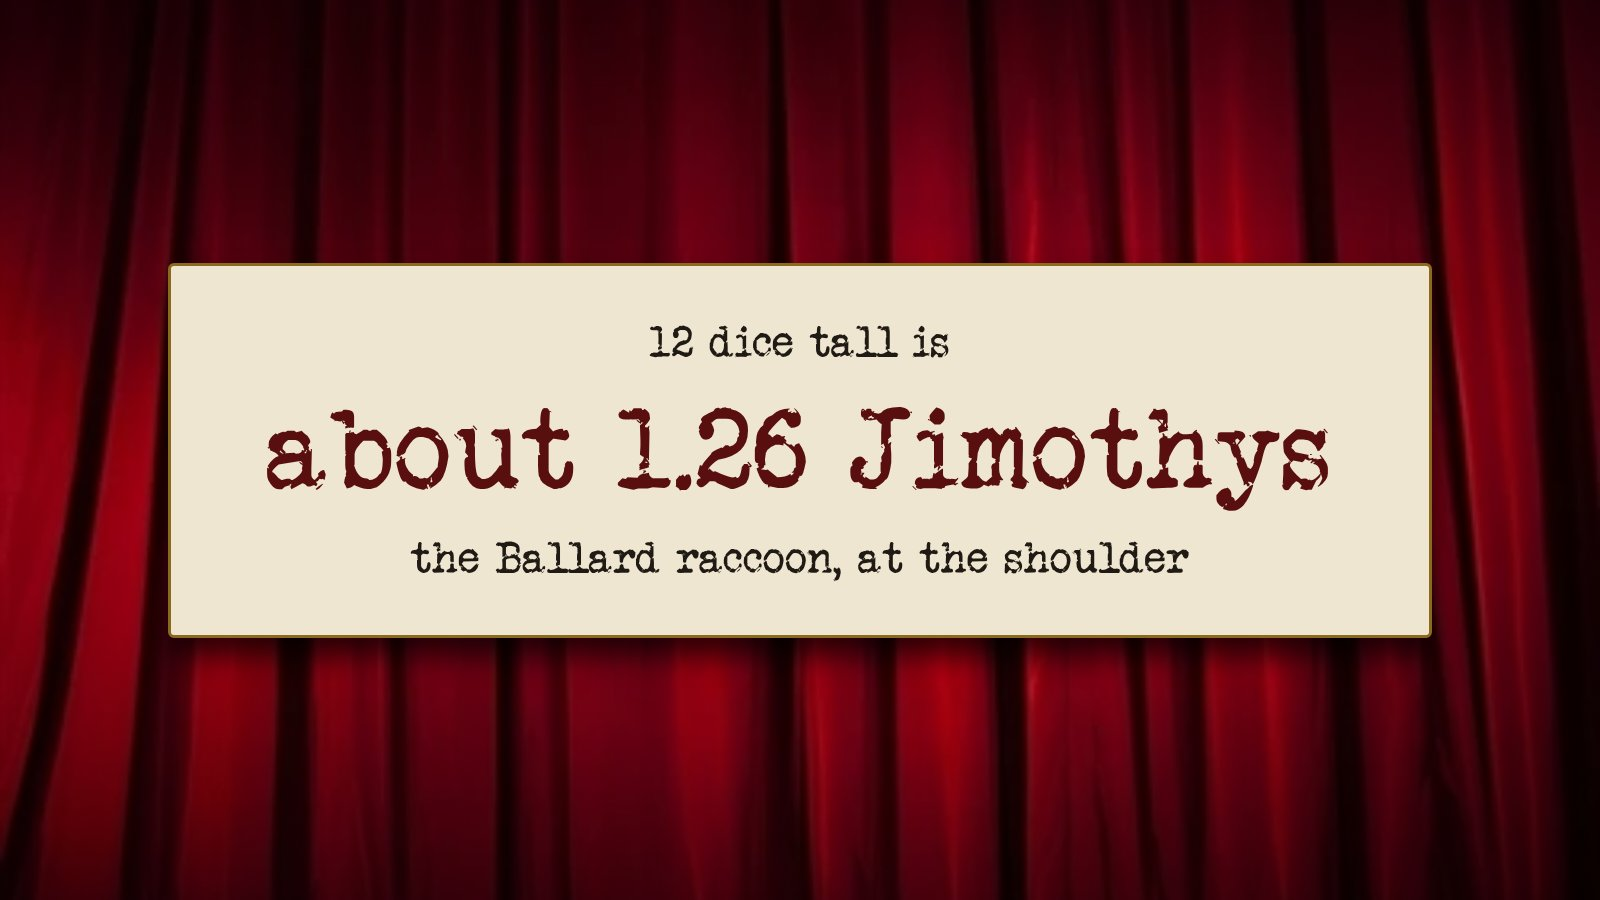
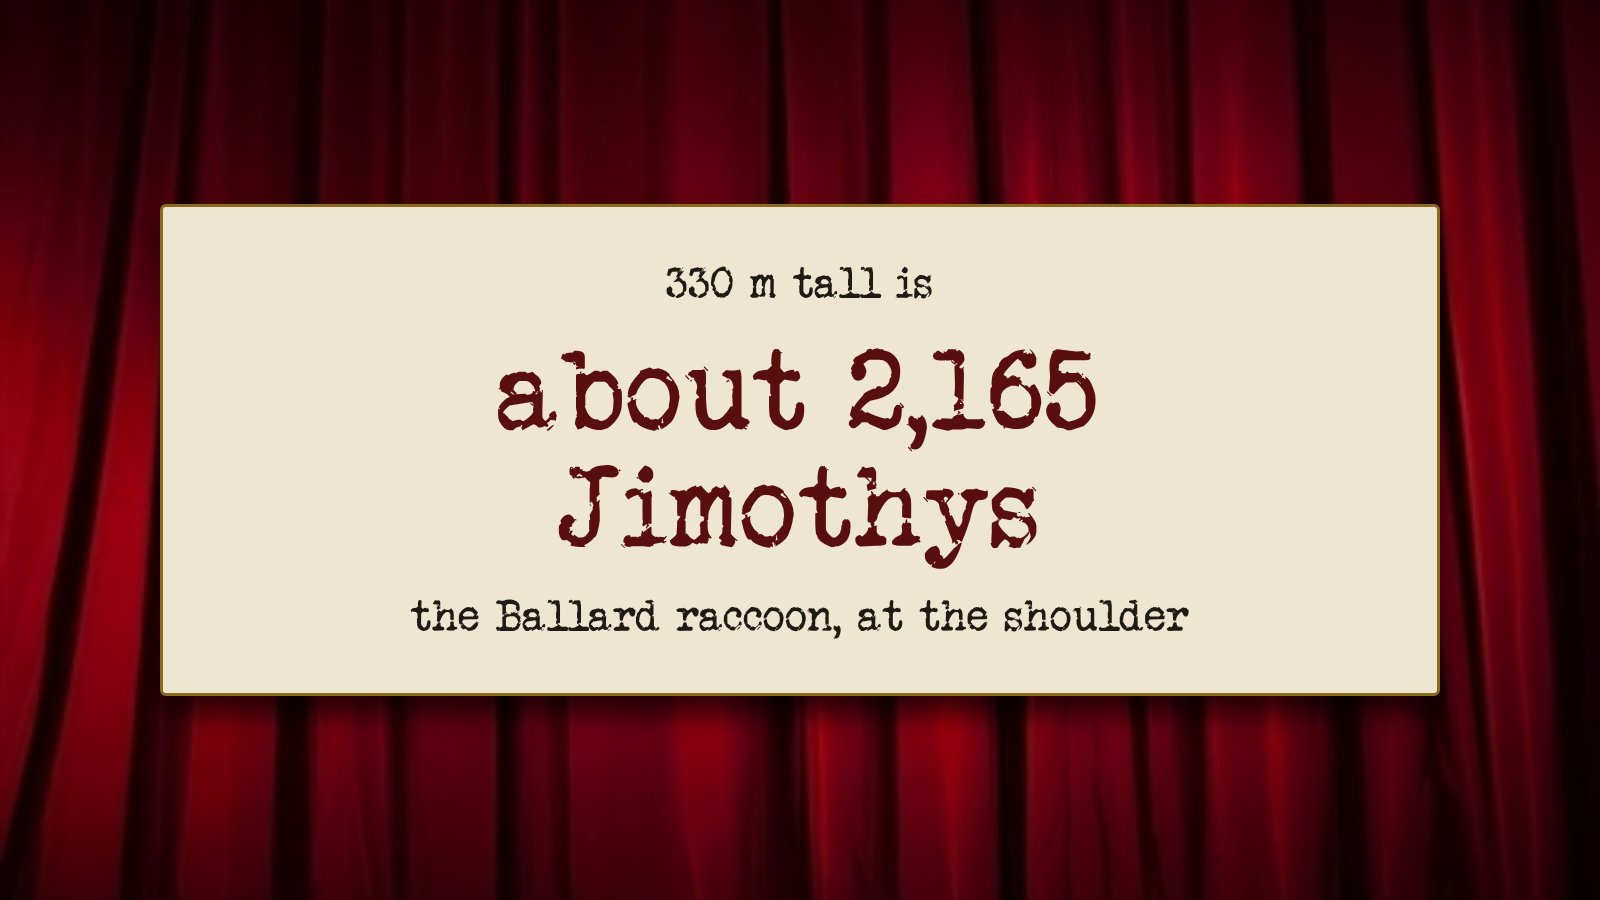
Re-shoot Jimothy on the big screen with the Eiffel Tower: 330 m tall is about 2,165 Jimothys
Claude-Session: https://claude.ai/code/session_01KQobWXFnZT59zibViTWasP

Changed region(s): [[0.0938, 0.2178, 0.9062, 0.8089]]

diff --git a/docs/screens/README.md b/docs/screens/README.md
@@ -94,7 +94,7 @@ Main screen (`/`, 1600×900):
 | `converter-main-whole.jpg` | A useless conversion on the big screen (2026-10-15): "39 dice tall is / 65 LEGO bricks / a 2×4 brick, without its studs" on a paper card |
 | `converter-main-loudness.jpg` | A sound on the big screen: "94.2 dB is / about 26 garbage disposals at once / at the sink" (2026-10-17) |
 | `converter-main-fraction.jpg` | The same with a fraction: "exactly 1/300 the height of Big Ben" |
-| `converter-main-jimothy.jpg` | Jimothy on the big screen: "12 dice tall is / about 1.26 Jimothys / the Ballard raccoon, at the shoulder" (2026-10-21) |
+| `converter-main-jimothy.jpg` | Jimothy on the big screen: the Eiffel Tower's height typed in, "330 m tall is / about 2,165 Jimothys / the Ballard raccoon, at the shoulder" (2026-10-21) |
 | `main-hidden-menu.jpg` | The ☰ Menu in the top-left corner, open |
 | `main-curtain-join-qr.jpg` | The curtain while the host remote's "Show QR code" is open: the join QR in the bottom-right corner, above the address (taken 2026-10-13, stand-in portrait) |
 
